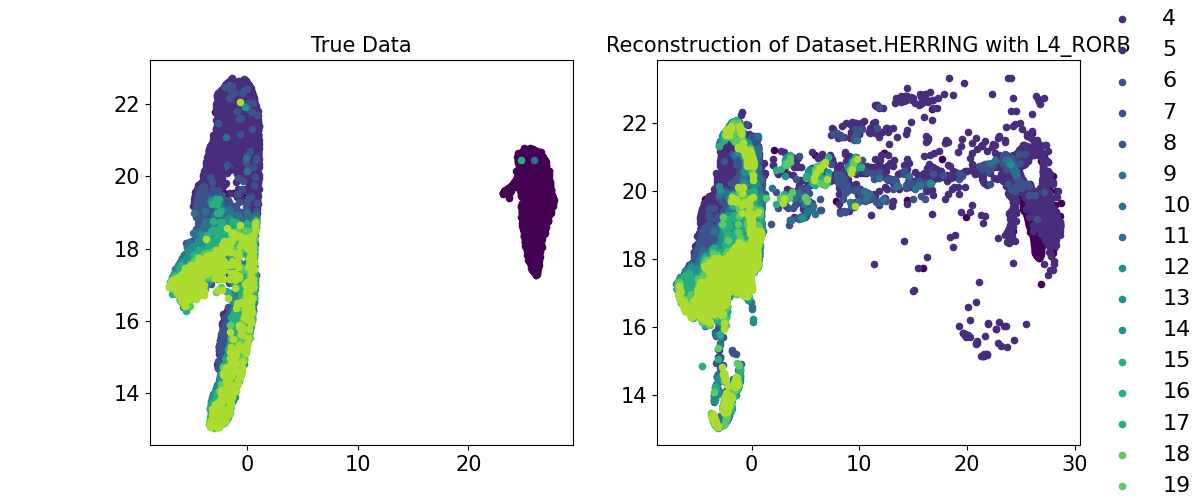
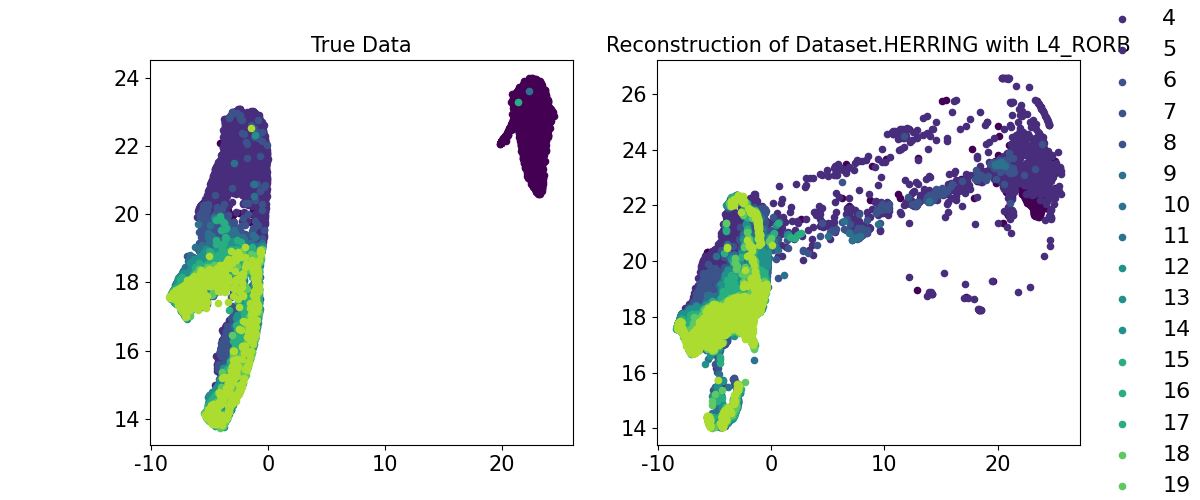
[feat] Starting continuous and save figures

diff --git a/benchmark/test_continuous_tps.py b/benchmark/test_continuous_tps.py
@@ -13,7 +13,7 @@ from datetime import datetime
 from torch import nn
 from torch.nn.parallel import DistributedDataParallel as DDP
 
-from benchmark.BenchmarkUtils import loadSCData, tpSplitInd, tunedOurPars, splitBySpec, Dataset, sampleGaussian
+from benchmark.BenchmarkUtils import loadSCData, tpSplitInd, tunedOurPars, splitBySpec, Dataset, sampleGaussian, SplitType
 from optim.running import constructscNODEModel, scNODETrainWithPreTrain, scNODEPredict
 
 
@@ -69,9 +69,36 @@ def prep_splits_herring(ann_data, n_tps, data_name, cell_types):
 def prep_splits(ann_data, n_tps, data_name, cell_types):
     if data_name in [Dataset.HERRING, Dataset.HERRING_GABA]:
         return prep_splits_herring(ann_data, n_tps, data_name, cell_types=cell_types)
-    raise ValueError('Needs to run a Herring dataset')
+    
+    train_tps, test_tps = tpSplitInd(data_name, split_type, n_tps)
+    data = ann_data.X
 
-def model_training(train_data, train_tps, traj_data, tps):
+    # Convert to torch project
+    # so right now, we have it s.t. if the time points do match up, we get the data
+    # np.where returns a tuple, the array we care about is the first element
+    traj_data = [torch.FloatTensor(data[np.where(cell_tps == t)[0], :]) for t in range(1, n_tps + 1)]
+    traj_cell_types = None
+    if cell_types is not None:
+        traj_cell_types = [
+            cell_types[np.where(cell_tps == t)[0]] for t in range(1, n_tps + 1)
+        ]
+
+    all_tps = list(range(n_tps))
+    train_data, test_data = splitBySpec(traj_data, train_tps, test_tps)
+    tps = torch.FloatTensor(all_tps)
+    train_tps = torch.FloatTensor(train_tps)
+    test_tps = torch.FloatTensor(test_tps)
+    n_cells = [each.shape[0] for each in traj_data]
+
+    print(f'{train_data}, {test_data}')
+    print("# tps={}, # genes={}".format(n_tps, n_genes))
+    print("# cells={}".format(n_cells))
+    print("Train tps={}".format(train_tps))
+    print("Test tps={}".format(test_tps))
+    return train_data, train_tps, test_data, test_tps, traj_data, tps, traj_cell_types
+
+
+def model_training(train_data, train_tps, traj_data, tps, n_genes, split_type, use_hvgs, times_sorted):
     # Model training
     pretrain_iters = 200
     pretrain_lr = 1e-3
@@ -97,22 +124,15 @@ def model_training(train_data, train_tps, traj_data, tps):
         ode_method="euler"
     )
 
-    # now we turn everything to GPU if we can:
-    # local_rank = int(os.environ["LOCAL_RANK"])
-    # torch.cuda.set_device(local_rank)
-    # device = torch.device(f"cuda:{local_rank}")
-    # device = torch.device('cuda') if torch.cuda.is_available() else torch.device('cpu')
     device = torch.device('cpu')
     latent_ode_model = latent_ode_model.to(device)
 
-    # dist.init_process_group('nccl')
-    # if torch.cuda.device_count() > 1:
-        # latent_ode_model = DDP(latent_ode_model, device_ids=[local_rank], output_device=local_rank)
+    train_tps = [times_sorted[int(tp)] for tp in train_tps]
+    print(f'All the train tps: {train_tps}')
 
     train_tps = train_tps.to(device)
 
-    # latent_ode_model, loss_list, recon_obs, first_latent_dist, latent_seq = scNODETrainWithPreTrain(
-    latent_ode_model = scNODETrainWithPreTrain(
+    return scNODETrainWithPreTrain(
         train_data,
         train_tps,
         latent_ode_model,
@@ -124,21 +144,18 @@ def model_training(train_data, train_tps, traj_data, tps):
         pretrain_iters=pretrain_iters,
         pretrain_lr=pretrain_lr,
         device=device,
-        data_name=data_name
+        data_name=data_name,
+        split_type=split_type,
+        use_hvgs=use_hvgs,
+        use_continuous=True
     )
 
-    print(f'Finish entire pretraining!')
 
-    # dist.destroy_process_group()
-
-    # now we want to take the trajectory data and do something with it...
-    return latent_ode_model
-
-
-def visualize_umap_embeds(all_recon_obs, traj_data):
+def visualize_umap_embeds(all_recon_obs, traj_data, split_type, cell_type='all'):
     from plotting.PlottingUtils import umapWithPCA
     from plotting.visualization import plotPredAllTime, plotPredTestTime
     from optim.evaluation import globalEvaluation
+    import os
 
     # Visualization - 2D UMAP embeddings
     print("Compare true and reconstructed data...")
@@ -155,10 +172,30 @@ def visualize_umap_embeds(all_recon_obs, traj_data):
     true_umap_traj, umap_model, pca_model = umapWithPCA(np.concatenate(true_data, axis=0), n_neighbors=50, min_dist=0.1, pca_pcs=50)
     # and then the predicted one
     pred_umap_traj = umap_model.transform(pca_model.transform(np.concatenate(reorder_pred_data, axis=0)))
-    plotPredAllTime(true_umap_traj, pred_umap_traj, true_cell_tps, pred_cell_tps, fig_name=f'{data_name}_pred_all.png', title=f'Reconstruction of {data_name}')
-    # plots the predicted time points reconstruction as well
-    plotPredTestTime(true_umap_traj, pred_umap_traj, true_cell_tps, pred_cell_tps, test_tps.detach().numpy(), fig_name=f'{data_name}_pred_test.png', title=f'Prediction of {data_name}')
 
+    # create the directories if they don't exist
+    os.makedirs(f'figs/{data_name}/{split_type}', exist_ok=True)
+
+    plotPredAllTime(
+        true_umap_traj,
+        pred_umap_traj,
+        true_cell_tps,
+        pred_cell_tps,
+        fig_name=f'{data_name}/{split_type}/cell_type_{cell_type}_pred_all.png',
+        title=f'Reconstruction of {data_name} with {cell_type}'
+    )
+    # plots the predicted time points reconstruction as well
+    plotPredTestTime(
+        true_umap_traj,
+        pred_umap_traj,
+        true_cell_tps,
+        pred_cell_tps,
+        test_tps.detach().numpy(),
+        fig_name=f'{data_name}/{split_type}/cell_type_{cell_type}_pred_test.png',
+        title=f'Prediction of {data_name}'
+    )
+
+    """
     # Compute evaluation metrics
     print("Compute metrics...")
     test_tps_list = [int(t) for t in test_tps]
@@ -169,6 +206,7 @@ def visualize_umap_embeds(all_recon_obs, traj_data):
         pred_global_metric = globalEvaluation(traj_data[t].detach().numpy(), all_recon_obs[:, t, :])
         # we'll get all the distances
         logging.info(pred_global_metric)
+    """
 
 
 def get_umap_embed(all_recon_obs, traj_data, train_data, train_tps):
@@ -356,7 +394,7 @@ def predict_cell_traj(all_recon_obs, traj_data, train_data, train_tps, all_tps, 
 
 if __name__ == '__main__':
     timestamp = datetime.now().strftime("%Y-%m-%d_%H-%M-%S")
-    log_filename = f"./logs/logging/app_{timestamp}_real_tps.log"
+    log_filename = f"./logs/logging/app_{timestamp}.log"
     
     # Configure basic logging
     logging.basicConfig(
@@ -379,25 +417,60 @@ if __name__ == '__main__':
     )
     parser.add_argument('-v', action="store_true")
     parser.add_argument('--traj_view', action="store_true")
-    # so this uses the real time points rather than the indexed ones
-    parser.add_argument('--real_tps', action='store_true')
+    parser.add_argument('--hvgs', action='store_true')
+    parser.add_argument('--per_cell_type', action='store_true')
+
+    split_type_sel = [split_type.value for split_type in list(SplitType)]
+    parser.add_argument(
+        '-s',
+        '--split_type',
+        type=SplitType,
+        choices=list(SplitType),
+        metavar=f'{split_type_sel}',
+        default=SplitType.THREE_INTERPOLATION,
+        help='split type to choose from'
+    )
 
     args = parser.parse_args()
 
     data_name = args.dataset
-    split_type = "three_interpolation"
+    split_type = args.split_type.value
 
-    # 27000 cells by 2000 genes (HSGs)
-    ann_data, cell_tps, cell_types, n_genes, n_tps = loadSCData(data_name, split_type, path_to_dir='../')
+    # 27000 cells by 2000 genes (HVGs) if true
+    ann_data, cell_tps, cell_types, n_genes, n_tps = loadSCData(
+        data_name,
+        split_type,
+        path_to_dir='../',
+        use_hvgs=args.hvgs
+    )
 
     # GABA: 27500 cells x 22500 genes
     # Full: 154000 cells x 26700 genes -- way too many probably...
     # Think about the total number of cells per timepoint
     # print(ann_data)
-    train_data, train_tps, test_data, test_tps, traj_data, tps, traj_cell_types = prep_splits(ann_data, n_tps, data_name, cell_types)
+    train_data, train_tps, test_data, test_tps, traj_data, tps, traj_cell_types =\
+        prep_splits(
+            ann_data,
+            n_tps,
+            data_name,
+            cell_types
+        )
 
     # now let's train the data
-    latent_ode_model, _, _, _, _ = model_training(train_data, train_tps, traj_data, tps)
+    latent_ode_model, _, _, _, _ = model_training(
+        train_data,
+        train_tps,
+        traj_data,
+        tps,
+        n_genes,
+        split_type=split_type,
+        use_hvgs=args.hvgs,
+        times_sorted=sorted(ann_data.obs['numerical_age'].unique().tolist())
+    )
+
+    print(f'Finished training...')
+    exit()
+
     n_sim_cells = 2000
     
     # based on all the cells in the first time point, predict the next time points
@@ -410,7 +483,45 @@ if __name__ == '__main__':
     )  # (# cells, # tps, # genes)
 
     if args.v:
-        visualize_umap_embeds(all_recon_obs, traj_data)
+        # visualize_umap_embeds(all_recon_obs, traj_data, split_type=split_type)
+
+        if args.per_cell_type and data_name in [Dataset.HERRING, Dataset.HERRING_GABA]:
+            # we want to predict for each type of cell type
+            major_clust = ann_data.obs['major_clust'].unique().tolist()
+            print(f'Cell types: {major_clust}, num: {len(major_clust)}')
+
+            all_times_sorted = sorted(ann_data.obs['numerical_age'].unique().tolist())
+            for cell_type in major_clust:
+                cell_type_data = ann_data[ann_data.obs['major_clust'] == cell_type].copy()
+                cell_tps = cell_type_data.obs["numerical_age"]
+                times_sorted = sorted(cell_type_data.obs['numerical_age'].unique().tolist())
+
+                # cell type for traj data at ...
+                cell_traj_data = [
+                    torch.FloatTensor(
+                        cell_type_data.X[np.where(cell_tps == t)[0], :].toarray()
+                    )
+                    for t in times_sorted
+                ]
+
+                # only predict the relevant time points based on times_sorted
+                tps = torch.FloatTensor([
+                    all_times_sorted.index(time)
+                    for time in times_sorted
+                ])
+
+                recon_obs = scNODEPredict(
+                    latent_ode_model,
+                    cell_traj_data[0],
+                    tps,
+                    n_cells=n_sim_cells
+                )
+                visualize_umap_embeds(
+                    recon_obs,
+                    cell_traj_data,
+                    split_type=split_type,
+                    cell_type=cell_type
+                )
 
     if args.traj_view:
         print(tps)

diff --git a/plotting/visualization.py b/plotting/visualization.py
@@ -40,26 +40,26 @@ def plotPredAllTime(true_umap_traj, pred_umap_traj, true_cell_tps, pred_cell_tps
 
 def plotPredTestTime(true_umap_traj, pred_umap_traj, true_cell_tps, pred_cell_tps, test_tps, fig_name=None, title=None):
     '''Plot predictions at testing timepoints.'''
-    n_tps = len(np.unique(true_cell_tps).astype(int).tolist())
-    color_list = linearSegmentCMap(n_tps, "viridis")
-    # n_test_tps = len(test_tps)
-    # color_list = linearSegmentCMap(n_test_tps, "viridis")
+    # n_tps = len(np.unique(true_cell_tps).astype(int).tolist())
+    # color_list = linearSegmentCMap(n_tps, "viridis")
+    n_test_tps = len(test_tps)
+    color_list = linearSegmentCMap(n_test_tps, "viridis")
     # color_list = Vivid_10.mpl_colors
     fig, (ax1, ax2) = plt.subplots(1, 2, figsize=(12, 5))
     ax1.set_title("True Data", fontsize=15)
     ax2.set_title("Predictions", fontsize=15)
     ax1.scatter(true_umap_traj[:, 0], true_umap_traj[:, 1], label="other", c=gray_color, s=40, alpha=0.5)
     ax2.scatter(true_umap_traj[:, 0], true_umap_traj[:, 1], label="other", c=gray_color, s=40, alpha=0.5)
-    print(f'Test time points: {test_tps}')
+
     for i, t in enumerate(test_tps):
-        c = color_list[t.astype(int)]
+        c = color_list[i]
         true_t_idx = np.where(true_cell_tps == t)[0]
         pred_t_idx = np.where(pred_cell_tps == t)[0]
-        # ax1.scatter(true_umap_traj[true_t_idx, 0], true_umap_traj[true_t_idx, 1], label=int(t), color=c, s=20, alpha=1.0)
-        # ax2.scatter(pred_umap_traj[pred_t_idx, 0], pred_umap_traj[pred_t_idx, 1], label=int(t), color=c, s=20, alpha=1.0)
-        print(f'Color: {c}')
-    # ax2.legend(loc="center left", bbox_to_anchor=(1.0, 0.5))
-    # plt.tight_layout()
+        ax1.scatter(true_umap_traj[true_t_idx, 0], true_umap_traj[true_t_idx, 1], label=int(t), color=c, s=20, alpha=1.0)
+        ax2.scatter(pred_umap_traj[pred_t_idx, 0], pred_umap_traj[pred_t_idx, 1], label=int(t), color=c, s=20, alpha=1.0)
+
+    ax2.legend(loc="center left", bbox_to_anchor=(1.0, 0.5))
+    plt.tight_layout()
 
     if title is not None:
         plt.title(title)

diff --git a/optim/running.py b/optim/running.py
@@ -91,7 +91,8 @@ def scNODETrainWithPreTrain(
     data_name="Dataset.HERRING_GABA",
     visualize_pretrain=False,
     split_type='three_interpolation',
-    use_hvgs=False
+    use_hvgs=False,
+    use_continuous=False
 ):
     '''
     Train scNODE model.
@@ -120,7 +121,14 @@ def scNODETrainWithPreTrain(
     all_train_data = torch.cat(train_data, dim=0).to(device)
     all_train_tps = np.concatenate([np.repeat(t, train_data[i].shape[0]) for i, t in enumerate(train_tps)])
 
-    checkpoint_train_path = f'./checkpoints/{data_name}_full_train_split_type_{split_type}_use_hvgs_{use_hvgs}.pth'
+    if use_continuous:
+        os.makedirs(f'./checkpoints/continuous/')
+
+    checkpoint_train_path = (
+        f'./checkpoints/{data_name}_full_train_split_type_{split_type}_use_hvgs_{use_hvgs}.pth'
+        if not use_continuous else
+        f'./checkpoints/continuous/{data_name}_full_train_split_type_{split_type}_use_hvgs_{use_hvgs}.pth'
+    )
     if os.path.exists(checkpoint_train_path):
         latent_ode_model.load_state_dict(torch.load(checkpoint_train_path))
         # latent_ODE model prediction
@@ -134,7 +142,11 @@ def scNODETrainWithPreTrain(
     log_dir = os.path.join("./logs/scNODE_runs", run_name)
     writer = SummaryWriter(log_dir)
 
-    checkpoint_pretrain_path = f'./checkpoints/{data_name}_pretrain_split_type_{split_type}_use_hvgs_{use_hvgs}.pth'
+    checkpoint_pretrain_path = (
+        f'./checkpoints/{data_name}_pretrain_split_type_{split_type}_use_hvgs_{use_hvgs}.pth'
+        if not use_continuous else
+        f'./checkpoints/continuous/{data_name}_pretrain_split_type_{split_type}_use_hvgs_{use_hvgs}.pth'
+    )
 
     if os.path.exists(checkpoint_pretrain_path):
         latent_ode_model.load_state_dict(torch.load(checkpoint_pretrain_path))

diff --git a/benchmark/test_dataset.py b/benchmark/test_dataset.py
@@ -189,14 +189,14 @@ def visualize_umap_embeds(all_recon_obs, traj_data, split_type, cell_type='all')
     # create the directories if they don't exist
     os.makedirs(f'figs/{data_name}/{split_type}', exist_ok=True)
 
-    # plotPredAllTime(
-    #     true_umap_traj,
-    #     pred_umap_traj,
-    #     true_cell_tps,
-    #     pred_cell_tps,
-    #     fig_name=f'{data_name}/{split_type}/cell_type_{cell_type}_pred_all.png',
-    #     title=f'Reconstruction of {data_name} with {cell_type}'
-    # )
+    plotPredAllTime(
+        true_umap_traj,
+        pred_umap_traj,
+        true_cell_tps,
+        pred_cell_tps,
+        fig_name=f'{data_name}/{split_type}/cell_type_{cell_type}_pred_all.png',
+        title=f'Reconstruction of {data_name} with {cell_type}'
+    )
     # plots the predicted time points reconstruction as well
     plotPredTestTime(
         true_umap_traj,
@@ -205,7 +205,7 @@ def visualize_umap_embeds(all_recon_obs, traj_data, split_type, cell_type='all')
         pred_cell_tps,
         test_tps.detach().numpy(),
         fig_name=f'{data_name}/{split_type}/cell_type_{cell_type}_pred_test.png',
-        title=f'Prediction of {data_name}'
+        title=f'Prediction of {data_name} with {cell_type}'
     )
 
     """
@@ -485,7 +485,7 @@ if __name__ == '__main__':
         if args.per_cell_type and data_name in [Dataset.HERRING, Dataset.HERRING_GABA]:
             # we want to predict for each type of cell type
             major_clust = ann_data.obs['major_clust'].unique().tolist()
-            print(f'Cell types: {major_clust}')
+            print(f'Cell types: {major_clust}, num: {len(major_clust)}')
 
             all_times_sorted = sorted(ann_data.obs['numerical_age'].unique().tolist())
             for cell_type in major_clust:
